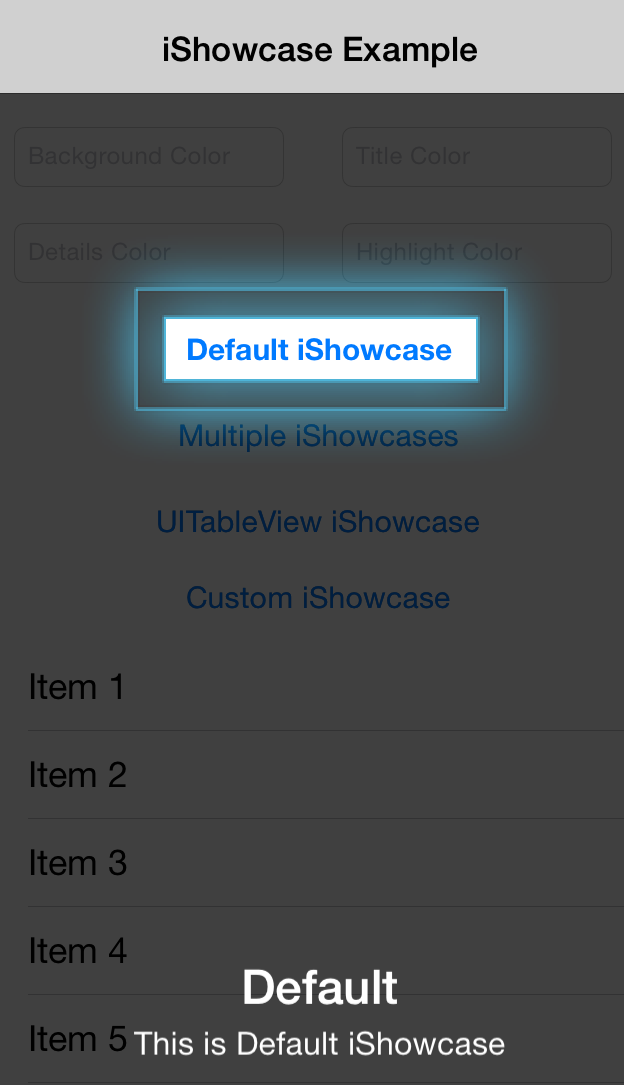
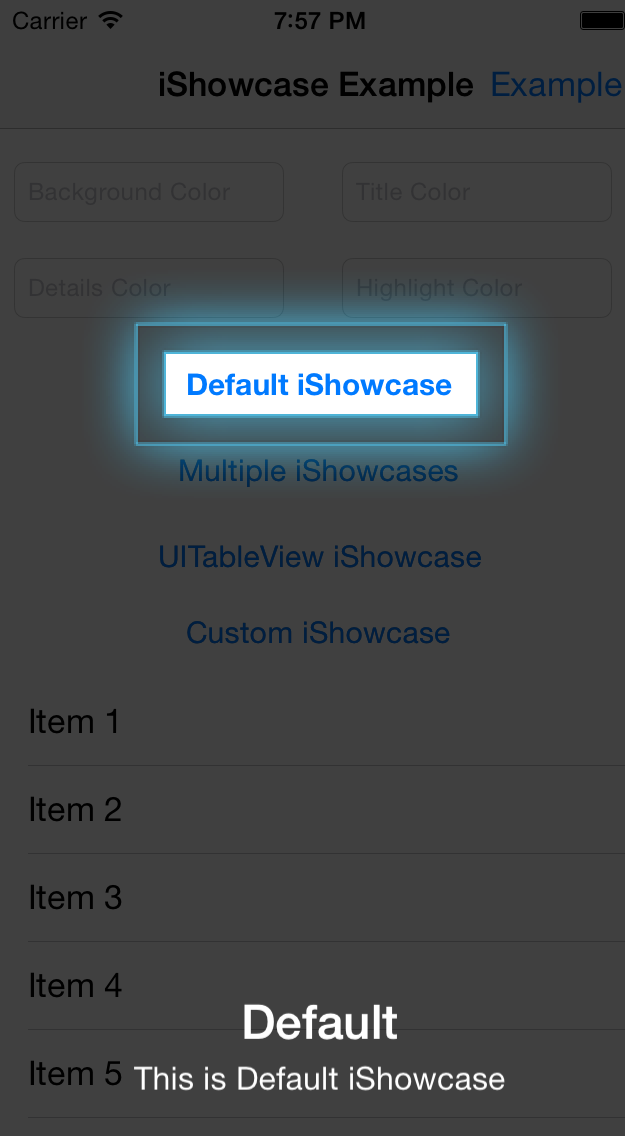
Able to cover entire window

diff --git a/Pod/Classes/iShowcase.m b/Pod/Classes/iShowcase.m
@@ -87,6 +87,7 @@ int const TYPE_RECTANGLE = 1;
     self.detailsAlignment = NSTextAlignmentCenter;
     self.iType = TYPE_RECTANGLE;
     self.radius = 25.0f;
+    self.containerView = [[[UIApplication sharedApplication] delegate] window];
     return [self initWithFrame:CGRectMake(0, 0, [UIScreen mainScreen].bounds.size.width, [UIScreen mainScreen].bounds.size.height)];
 }
 
@@ -110,10 +111,24 @@ int const TYPE_RECTANGLE = 1;
 
 -(void) show
 {
-    [self showInContainer:containerView];
+    self.alpha = 1.0f;
+    for (UIView* view in [containerView subviews])
+    {
+        [view setUserInteractionEnabled:NO];
+    }
+    
+    [UIView transitionWithView:containerView
+                      duration:0.5
+                       options:UIViewAnimationOptionTransitionCrossDissolve
+                    animations:^{
+                        [containerView addSubview:self];
+                    }
+                    completion:^(BOOL finished) {
+                        [delegate iShowcaseShown];
+                    }];
 }
 
--(void) showInContainer:(id)container
+-(void) showInContainer:(id)container DEPRECATED_ATTRIBUTE
 {
     containerView = container;
     self.alpha = 1.0f;

diff --git a/Example/iShowcase/iShowcaseViewController.m b/Example/iShowcase/iShowcaseViewController.m
@@ -26,6 +26,7 @@
 @synthesize btn_table;
 @synthesize tableView;
 @synthesize tableData;
+@synthesize barButton;
 
 @synthesize showcase;
 
@@ -54,7 +55,7 @@ bool custom = false;
 {
     showcase = [[iShowcase alloc] init];
     showcase.delegate = self;
-    [showcase setContainerView:self.view];
+//    [showcase setContainerView:self.view];
 }
 
 - (IBAction)custom:(id)sender
@@ -101,6 +102,12 @@ bool custom = false;
 {
     CGRect tableRow = [tableView convertRect:[tableView rectForRowAtIndexPath:[NSIndexPath indexPathForRow:0 inSection:0]] toView:[tableView superview]];
     [showcase setupShowcaseForLocation:tableRow title:@"UITableView" details:@"This is Custom Position Example"];
+    [showcase show];
+}
+
+- (IBAction)barButtonExample:(id)sender
+{
+    [showcase setupShowcaseForTarget:[barButton valueForKey:@"view"] title:@"Bar Button Example" details:@"This example highlights the UIBarButtonItem"];
     [showcase show];
 }
 

diff --git a/Pod/Classes/iShowcase.h b/Pod/Classes/iShowcase.h
@@ -38,13 +38,13 @@
 - (void) setDetailsFont: (UIFont*) font;
 - (void) setTitleColor: (UIColor*) color;
 - (void) setDetailsColor: (UIColor*) color;
-- (void) setContainerView: (id) container;
+- (void) setContainerView: (id) container DEPRECATED_ATTRIBUTE;
 - (void) setIType: (int) type;
 - (void) setRadius: (CGFloat) radius;
 - (void) setupShowcaseForTarget: (id) target title: (NSString*) title details: (NSString*) details;
 - (void) setupShowcaseForLocation: (CGRect) location title: (NSString*) title details: (NSString*) details;
 - (void) show;
-- (void) showInContainer: (id) container;
+- (void) showInContainer: (id) container DEPRECATED_ATTRIBUTE;
 + (UIColor*) colorFromHexString : (NSString*) hexCode;
 
 @end

diff --git a/Example/iShowcase/iShowcaseViewController.h b/Example/iShowcase/iShowcaseViewController.h
@@ -23,4 +23,6 @@
 
 @property (strong, nonatomic) IBOutlet UITableView *tableView;
 
+@property (weak, nonatomic) IBOutlet UIBarButtonItem *barButton;
+
 @end

diff --git a/README.md b/README.md
@@ -6,7 +6,8 @@ Highlight individual parts of your application using iShowcase
 
 <img style="float : left" src="screenshot/1.png" width="320" height="568">
 <img style="float : right" src="screenshot/2.png" width="320" height="568">
-<img src="screenshot/3.png" width="320" height="568">
+<img style="float : left" src="screenshot/3.png" width="320" height="568">
+<img style="float : right" src="screenshot/4.png" width="320" height="568">
 
 ## Requirements
 * Xcode 5 or higher
@@ -35,7 +36,6 @@ To run the example project, clone the repo, and run `pod install` from the Examp
 ``` objective-c
 // Create Object of iShowcase
 iShowcase *showcase = [[iShowcase alloc] init];
-[showcase setContainerView: self.view];
 
 // Other init Methods
 initWithTitleFont: (UIFont*) titleFont detailsFont: (UIFont*) detailsFont;
